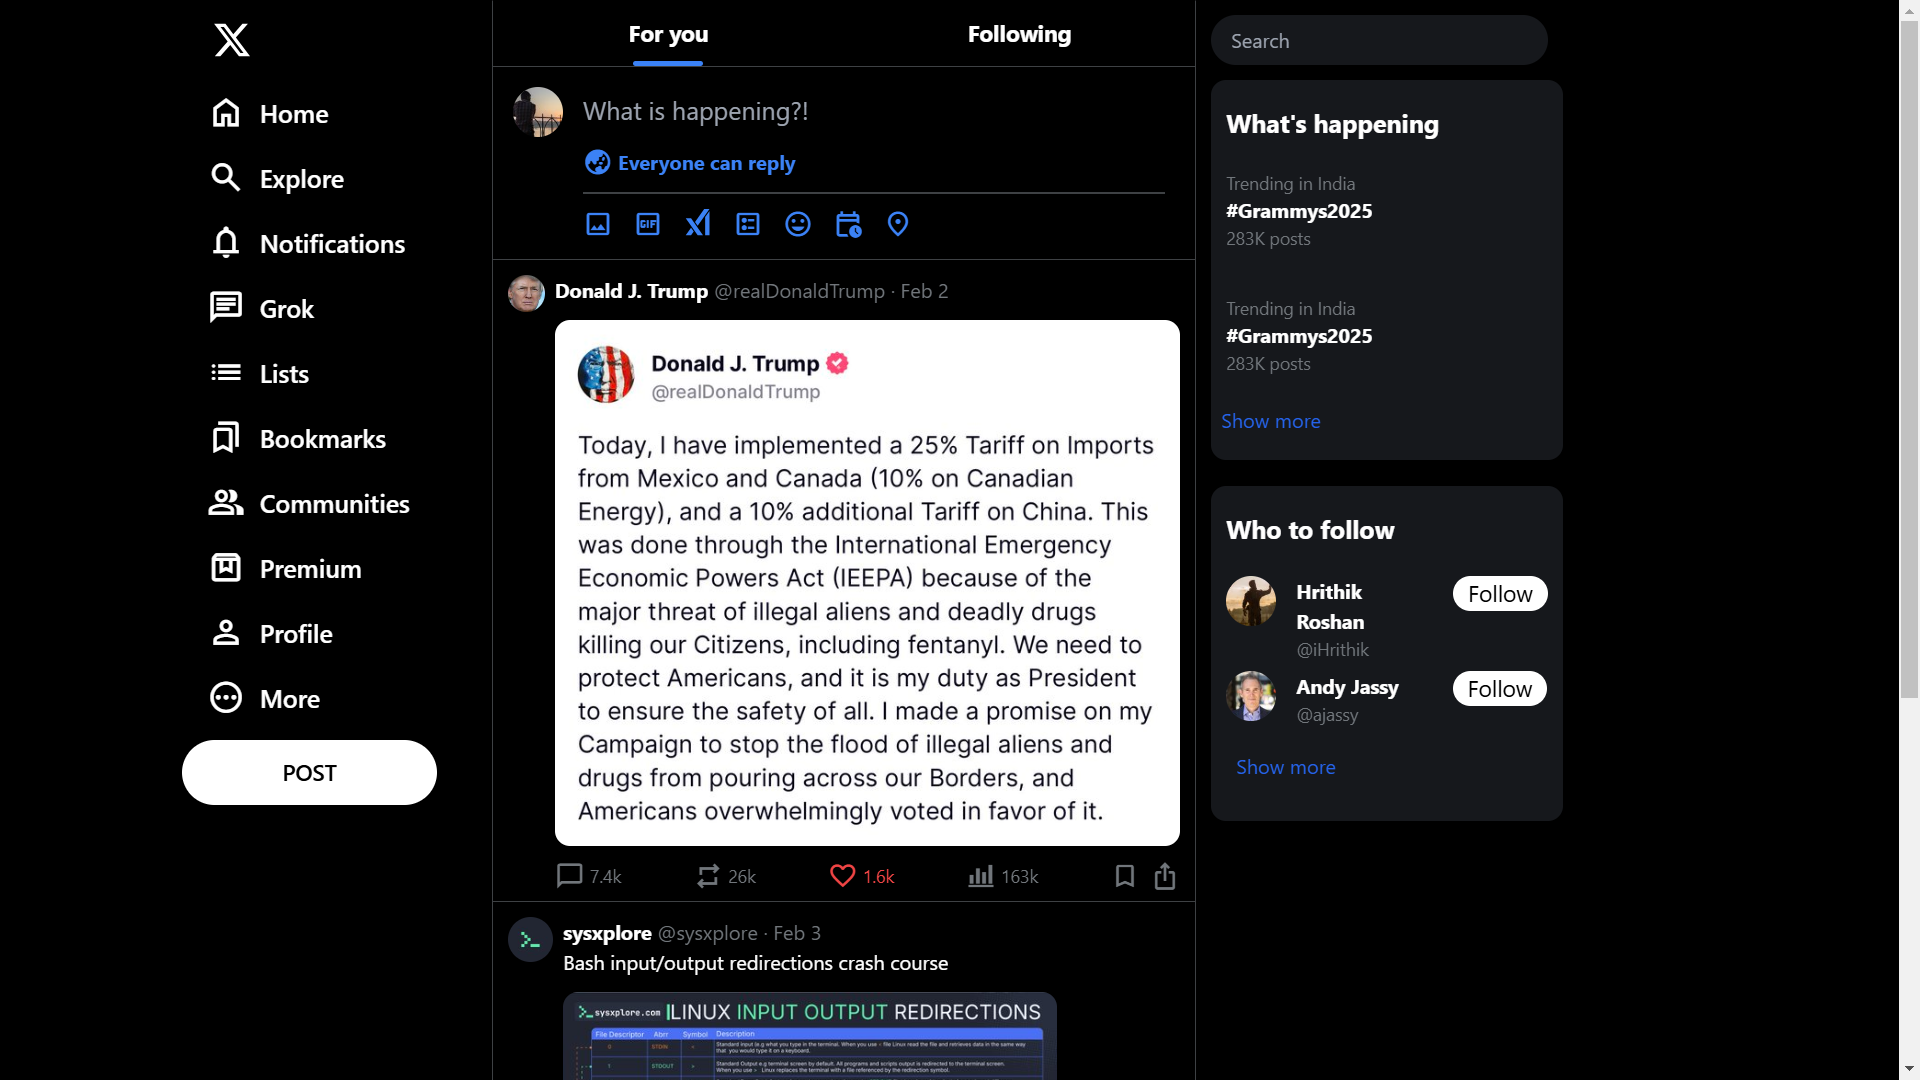
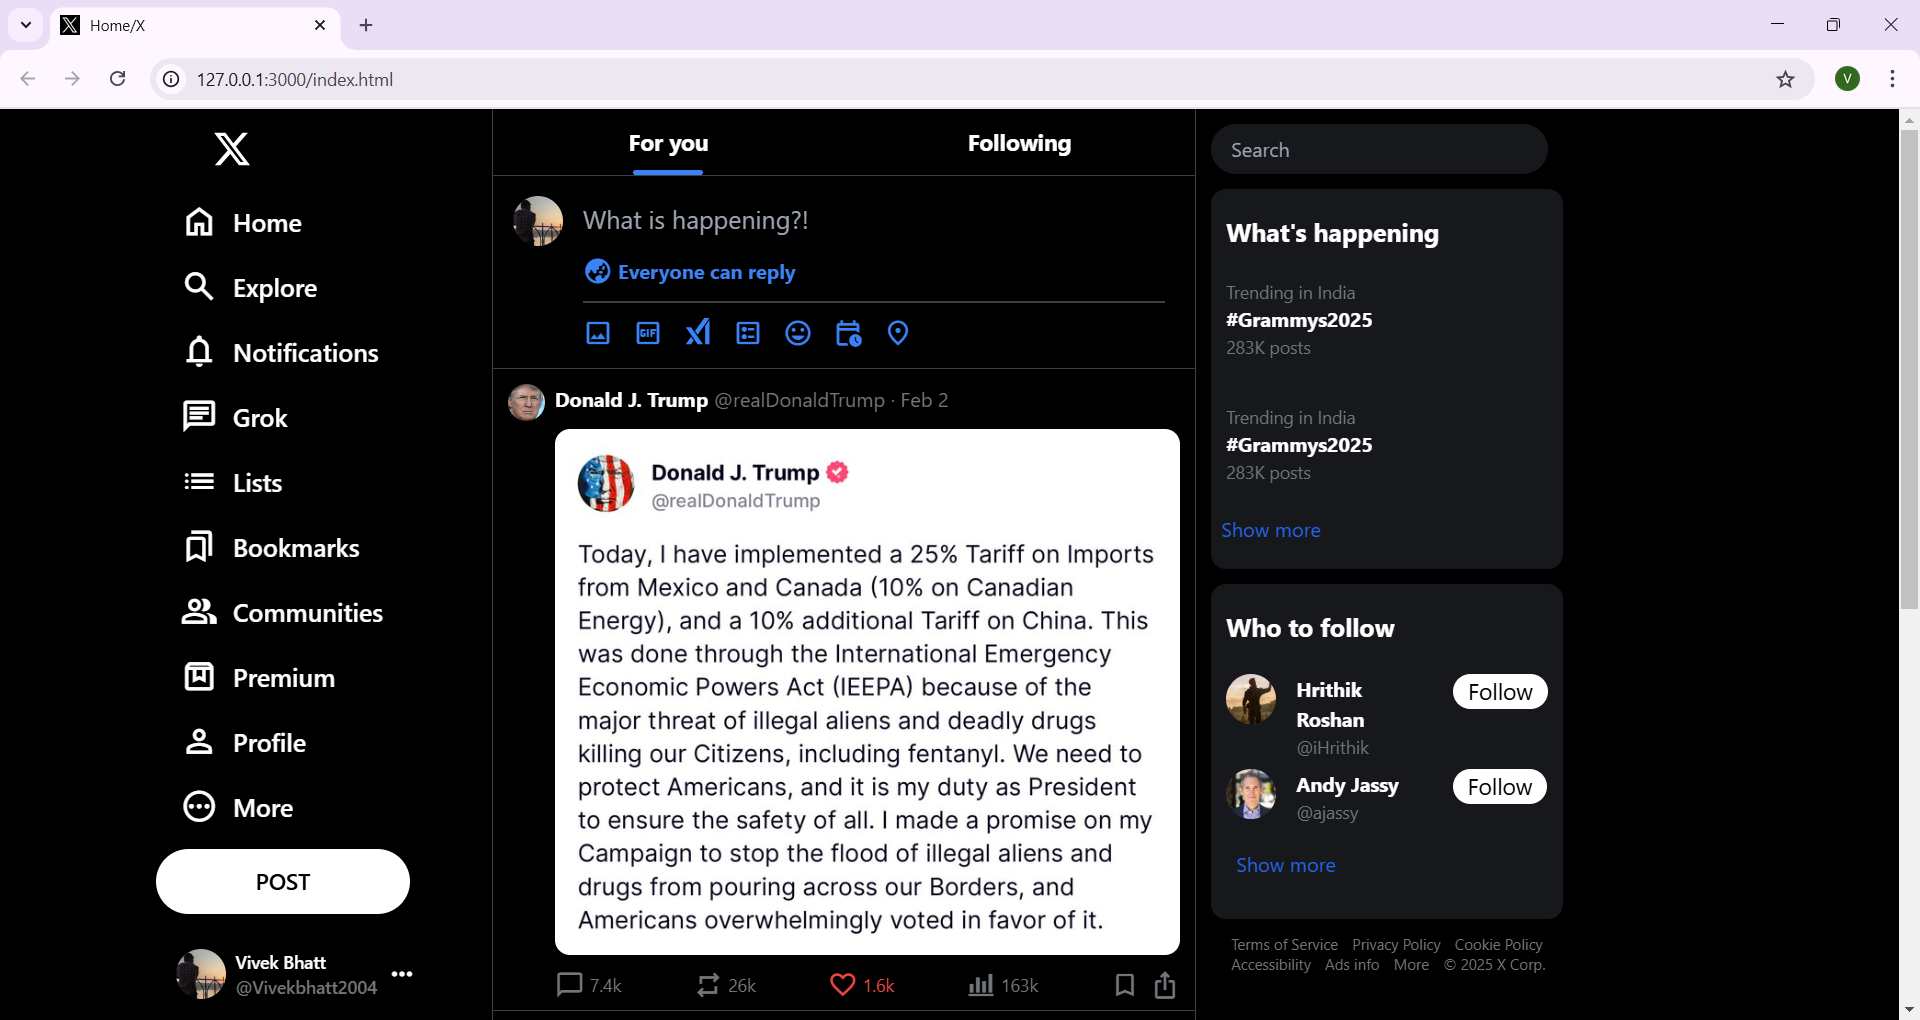
Add files via upload

diff --git a/index.html b/index.html
@@ -85,15 +85,36 @@
                         </div>
                     </li>
 
+
+                    <li>
+                        <div class="button w-full  my-2 hidden xl:block">
+                            <div
+                                class="user flex text-sm gap-2 hover:bg-gray-900 rounded-full py-3 px-4 cursor-pointer">
+                                <img class="rounded-full h-10"
+                                    src="https://pbs.twimg.com/profile_images/1598978979838722049/ZV6Kbupu_bigger.jpg"
+                                    alt="">
+                                <div>
+                                    <div>Vivek Bhatt</div>
+                                    <div class="text-[#71767B]">@Vivekbhatt2004</div>
+                                </div>
+                                <span class="material-symbols-outlined m-auto">
+                                    more_horiz
+                                </span>
+                            </div>
+                        </div>
+                    </li>
+
+
                     <li class="flex justify-start items-center  w-fit px-3 py-2">
                         <span class="createpost sticky xl:hidden">
-                        <span class="material-symbols-outlined  bg-blue-500 p-2 rounded-full">
-                            edit
+                            <span class="material-symbols-outlined  bg-blue-500 p-2 rounded-full">
+                                edit
+                            </span>
                         </span>
-                    </span>
-                </li>
+                    </li>
 
                 </ul>
+
             </div>
         </div>
         <div class="second w-full  border-[1px] border-x-[#3e4144] border-y-black mr-5 xl:mr-0">
@@ -118,6 +139,7 @@
                         <span>Everyone can reply</span>
                     </div>
                     <div class="w-[95%] h-[1px] bg-[#3e4144]"></div>
+
                     <div class="blueicons flex gap-4 cursor-pointer text-blue-500">
                         <span class="material-symbols-outlined">
                             image
@@ -147,6 +169,7 @@
                         </span>
 
                     </div>
+
                 </div>
             </div>
             <div class="h-[1px] w-full  bg-[#3e4144]"></div>
@@ -278,11 +301,11 @@
                             </div>
                         </div>
                     </div>
-                    
+
                 </div>
             </div>
-            
-            
+
+
 
 
         </div>
@@ -328,7 +351,7 @@
 
                     </div>
 
-                    <div class="people1 flex gap-4 hover:bg-gray-800 cursor-pointer">
+                    <div class="people2 flex gap-4 hover:bg-gray-800 cursor-pointer">
                         <img class="h-10 rounded-full"
                             src="https://pbs.twimg.com/profile_images/1716462761163862016/5BsZ8q20_bigger.jpg" alt="">
                         <div>
@@ -340,8 +363,19 @@
                         </div>
 
                     </div>
+
+
                     <div class="text-blue-600 mt-5 ml-2">Show more</div>
                 </div>
+            </div>
+            <div class="terms sticky top-[85vh] w-3/5 m-3 px-3 text-xs text-[#71767B]">
+                <span class="hover:underline mx-1">Terms of Service</span>
+                <span class="hover:underline mx-1">Privacy Policy</span>
+                <span class="hover:underline mx-1">Cookie Policy</span>
+                <span class="hover:underline mx-1">Accessibility</span>
+                <span class="hover:underline mx-1">Ads info</span>
+                <span class="hover:underline mx-1">More</span>
+                <span class="hover:underline mx-1">© 2025 X Corp.</span>
             </div>
 
 
